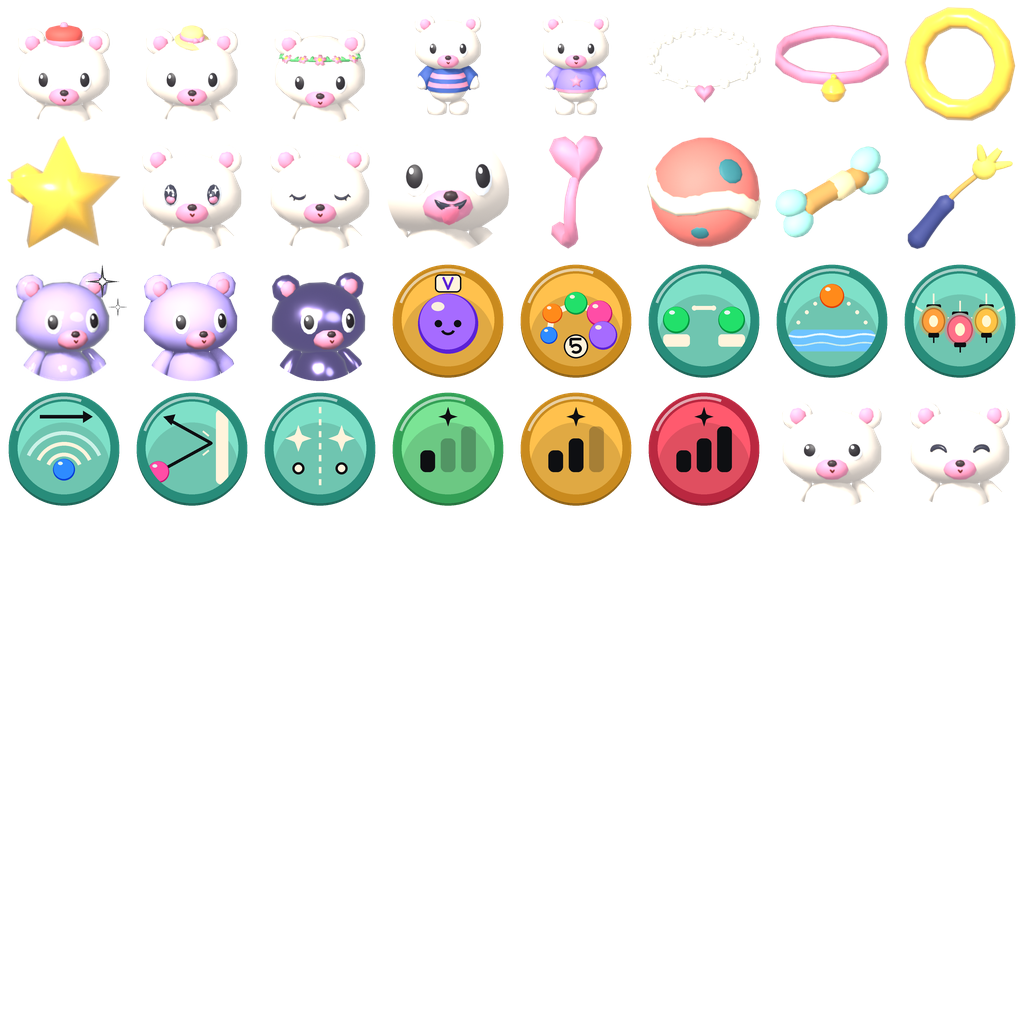
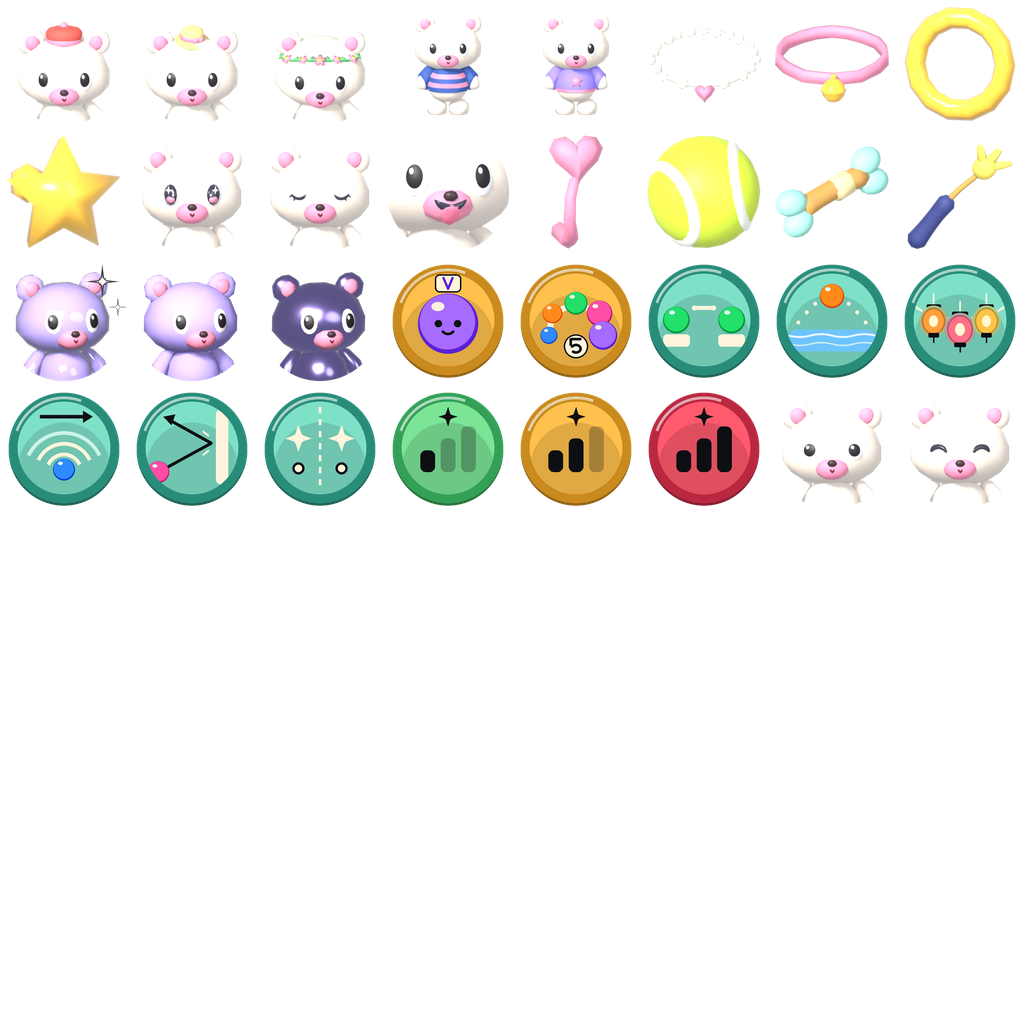
feat(toys): the Ball toy is a tennis ball, with a new Book cell (QA v735 H2)
Optic yellow-green felt and two thin white seam arcs (off-centre discs
that break the surface as curves). Book atlas page 1 re-rendered and
re-uploaded as Image 89211501685731.

Changed region(s): [[0.625, 0.125, 0.75, 0.25]]

diff --git a/scripts/deck_art/render_book_icons.py b/scripts/deck_art/render_book_icons.py
@@ -174,6 +174,12 @@ ITEM_SCALE = {"blep": 2.2}
 # steps a chain of ("r", radians about the toy's facing axis) and ("t", x, y, z) in the game's axes
 # (Y up, +Z facing), exactly as the Luau CFrame chain reads.
 PRIMITIVE_TOYS = {
+    # Tennis ball (QA v735 H2). Replaces the modelled "Ball" in toys.blend for its book cell.
+    "Ball": [
+        ("FeltBall", (.24, .24, .24), [], "#D0E83A"),
+        ("SeamArcL", (.1944, .05, .1944), [("r", .2), ("ry", .3), ("r", math.pi / 2), ("t", 0, .075, 0)], "#FCFBEF"),
+        ("SeamArcR", (.1944, .05, .1944), [("r", .2), ("ry", -.3), ("r", -math.pi / 2), ("t", 0, .075, 0)], "#FCFBEF"),
+    ],
     "Wobble_Top": [
         ("TealBody", (.20, .15, .20), [("r", .18)], "#3FB7B0"),
         ("CreamEquator", (.205, .04, .205), [("r", .18), ("t", 0, .01, 0)], "#FFF0C9"),
@@ -295,13 +301,21 @@ def build_primitive_toys():
     bm.to_mesh(sphere)
     bm.free()
     for index, (gid, parts) in enumerate(PRIMITIVE_TOYS.items()):
+        old = bpy.data.objects.get(gid)
+        if old:     # a primitive toy takes over the modelled one of the same name
+            for child in list(old.children):
+                bpy.data.objects.remove(child)
+            bpy.data.objects.remove(old)
         root = bpy.data.objects.new(gid, None)
         root.location = (4.0 + index, 0.0, 0.2)
         bpy.context.scene.collection.objects.link(root)
         for name, size, steps, colour in parts:
             m = Matrix.Identity(4)
             for step in steps:
-                m = m @ (Matrix.Rotation(step[1], 4, "Z") if step[0] == "r" else Matrix.Translation(step[1:]))
+                if step[0] == "t":
+                    m = m @ Matrix.Translation(step[1:])
+                else:   # "r" turns about the facing axis (game Z), "ry" about game Y
+                    m = m @ Matrix.Rotation(step[1], 4, "Y" if step[0] == "ry" else "Z")
             ob = bpy.data.objects.new(gid + "_" + name, sphere.copy())
             ob.data.materials.append(flat("toyprim_" + colour.lstrip("#"), colour, rough=0.5))
             bpy.context.scene.collection.objects.link(ob)
@@ -328,7 +342,7 @@ def toys():
         extent = max(mx.x - mn.x, mx.y - mn.y, mx.z - mn.z)
         for o in objs:
             o.hide_render = False
-        yaw = {"Bone": -28, "Ball": -24, "Sparkler": -30, "Wobble_Top": -12, "Squeaky_Carrot": -10}.get(gid, -25)
+        yaw = {"Bone": -28, "Ball": -14, "Sparkler": -30, "Wobble_Top": -12, "Squeaky_Carrot": -10}.get(gid, -25)
         roll = {"Sparkler": -38, "Bone": 20}.get(gid, 0)        # long toys lie on the diagonal
         fit = {"Sparkler": 1.0, "Bone": 1.05, "Wobble_Top": 1.12, "Squeaky_Carrot": 1.08}.get(gid, 1.28)
         frame(cam, centre, extent * fit, yaw, 18, roll)

diff --git a/TODO.md b/TODO.md
@@ -4,6 +4,7 @@ Updated November 14, 2026. Published private builds are recorded in [PLAY-BUILD.
 
 ## Now working on
 
+- [ ] **v735 QA lane H (2026-11-15, unpublished, Edit only; nothing here was run in Play):** hatch transition, tennis ball, new hatch rarity sounds, Hatch eggs help card, tappable quest ticker and onboarding. Triage: `artifacts/qa-2026-11-15-v735/QA-TRIAGE.md`. **H2 landed in source:** the Ball toy is a tennis ball (`PetToyGeometry` felt + two seam arcs, 3 parts); Book atlas page 1 re-uploaded with the new cell (Image 89211501685731, was 99292277254782; moderation pending); spec `TennisBallToy` (not run).
 - [x] **Integration and verification pass (2026-11-15): done, place saved v729, not published.** Server 56/56, client 116/140 (14 long-standing, 10 older stale specs listed in the triage). Fixed: the Hatch eggs pane placement, a per-frame `GetTouches` error in Customize and the Wardrobe, the "✓ 0/7" stamp chip, inspect copy placeholders, and Box collision on `W7_Stations__marble_smooth` in Edit. Notes and captures: `artifacts/qa-2026-11-14-v685/QA-TRIAGE.md`, `verify/`. Open: a Book atlas cell for the Pocket Deck toy; the 10 stale specs.
 - [ ] **Reveal follow-ups R1 to R5 and R11 store art (agent A, 2026-11-15, unpublished): landed, awaiting Spencer's look.** R1 one-line descriptions for every hatch result (`UICopy hatch.reveal.describe.*`). R2 item reveal: toys, features and a Bear wearing the finish turn in 3D on a lit rarity backdrop. R3 name plate end is one shape. R4 hatch stages dim in and leave with a fade instead of popping. R5 pet reveal is lit soft and the Bear waves. R11: player-visible name is Pocket Pals (deck readout, difficulty picker, the PLAYING badge); icon B rebuilt with the Bear holding the Pocket Deck toy; `LISTING.md` retitled. 16 hatch suites pass in Studio Play. **Not verified: live motion in the real hatch flow (no window focus), a physical phone.** **Open:** only thumbnails 3, 11 and 12 are from this build, the other nine are 13 November captures; `UICopy` spec fails on `inspect.bond` (pet-inspect string, sample missing); `HatchActions` still fails as before; Hatch eggs item previews unchanged; translations not synced (CSV regenerated, sync not run). Evidence: `artifacts/reveal-2026-11-15/README.md` (top section), `artifacts/store-listing/icon/icon-options-preview.png`.
 - [ ] **QA 06:00 batch R6 to R10 + W2 promotion (agent B, 2026-11-15, unpublished; Play owned by the hatch agent, so nothing here was run in Play):** notes per item in `artifacts/qa-2026-11-14-v685/QA-TRIAGE.md`. **R6 landed in source** (inspect card `PetInspect.lua`, reward-free hello `PetHello.lua` + `PetHelloRules`, wave `PetHelloPose`, Settings "Pet greetings", public board summary `PublicBond` / `GreetingsOff` / `PetHello`; specs `PetHello` (6/6 offline in the Luau CLI) and `PetInspect`, to run in Play; needs a two-account look). **R7 landed in source** (toy `pocket_deck`, Toy Egg pool 3, `PetToyGeometry` builder, "tap" play; book cell is automatic and draws an initial until its atlas cell is uploaded; specs `ToyFeatureProgress`, `ToyFeatureHost`, `HatchEggsList`, `BookStateBits`, `PetPersonalPlay` updated, not run). **R8 landed in source** (the equipped toy stays in the pet's right hand between plays: `PetPlayVisual.renderHeld`, per-toy `PetToyGeometry.Hold`; put down only when carried, in the care machine, on park equipment; new spec `PetHeldToy`, not run; the per-toy offsets need a look). **R9 landed in source** (sit beat hold 6..14 s -> 12..24 s; the server now gives an idle pet a 14 + 5 s sit in place every third idle turn, `GardenLayout.SitEvery/SitRest`, because the 3.5 s wander cadence was what cut every sit short; a toy play no longer stands a sitting pet up; new spec `GardenSit`, not run; re-run the garden specs). **R10 landed in source** (`StampChip.lua` on the Hatch eggs header: "✓ n/7" or a gold-dotted "n/7" while today's stamp waits; a tap closes Hatch eggs and opens Quests on the daily tab; pointer and touch only; new spec `StampChip`, not run). **W2 native pack promoted** (lamp 3: new `WorldAssetsNative.rbxm` exported from Studio Edit, staged XML and pending promoted, proof re-signed; `python scripts/world_native_collision.py --check` passes; place not saved, `ZZ_Probe` destroyed). Open: the coordinator's save, a walk past the first bridge, and `world_native_collision_test.py` (4 fixtures still pin the old 325417-byte checkpoint).
